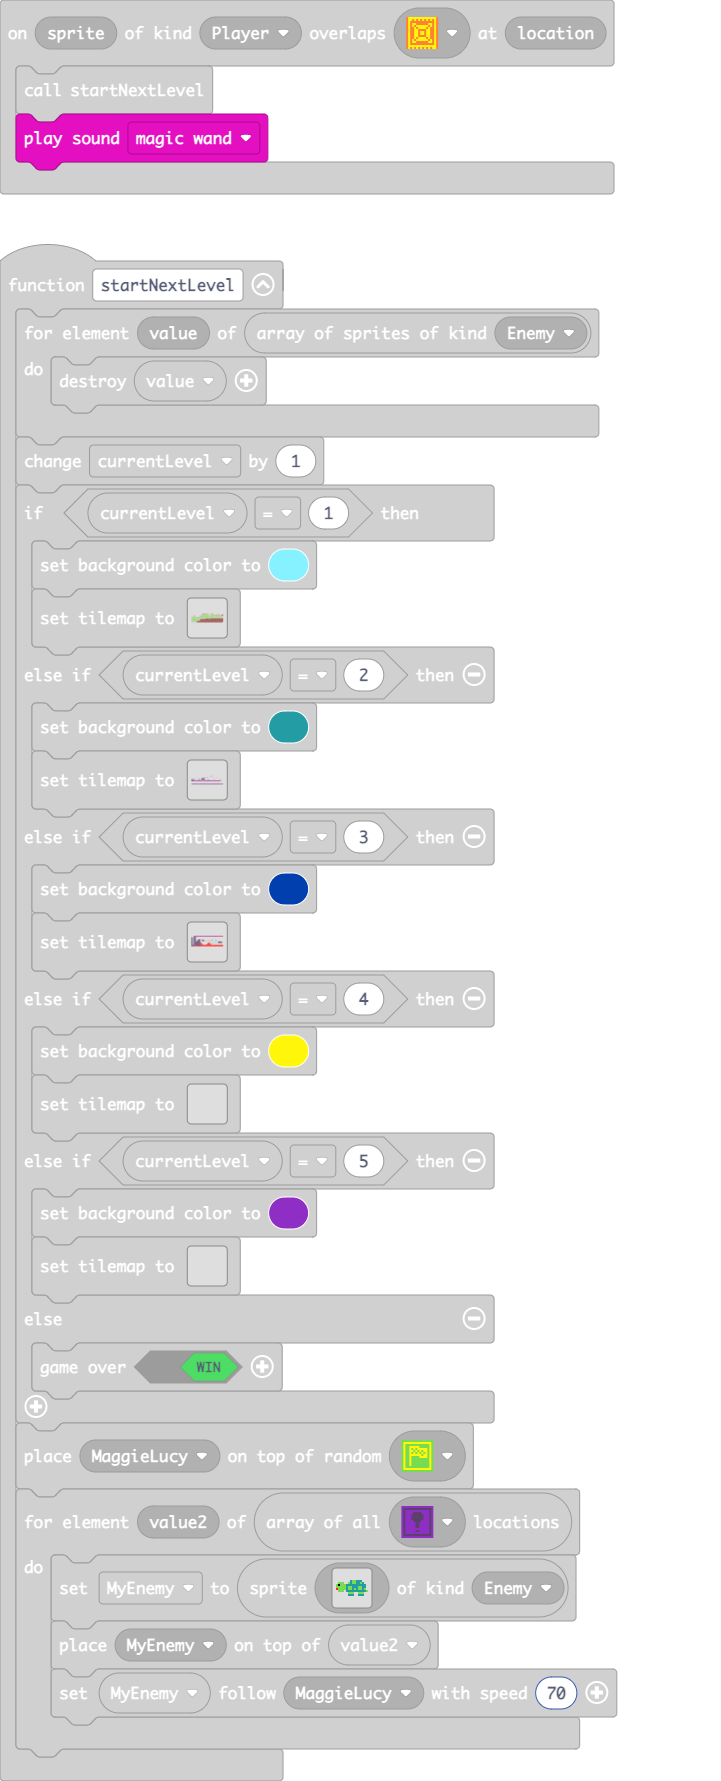
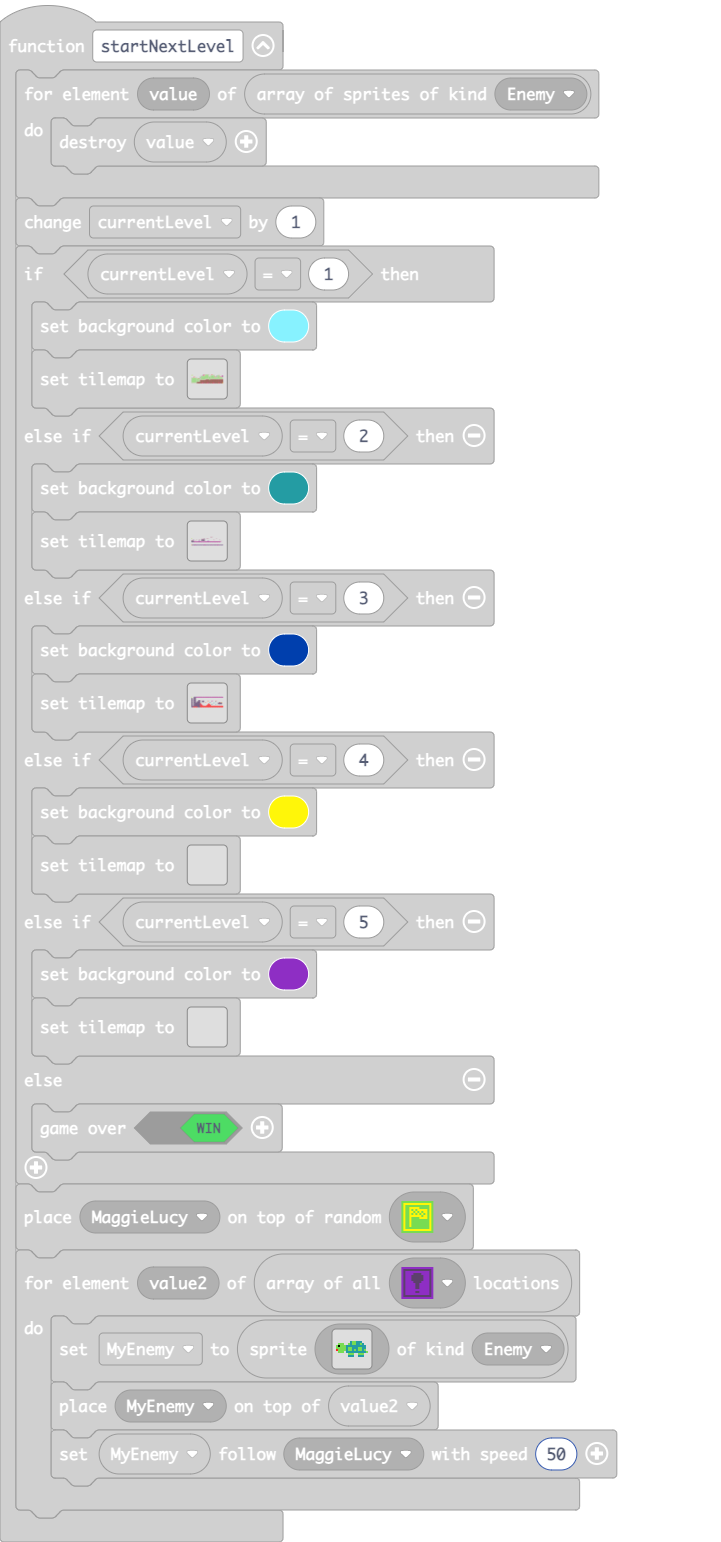
Update main.blocks, main.ts, tilemap.g.jres, tilemap.g.ts

diff --git a/tilemap.g.ts b/tilemap.g.ts
@@ -19,8 +19,6 @@ namespace myTiles {
     //% fixedInstance jres blockIdentity=images._tile
     export const tile9 = image.ofBuffer(hex``);
     //% fixedInstance jres blockIdentity=images._tile
-    export const tile7 = image.ofBuffer(hex``);
-    //% fixedInstance jres blockIdentity=images._tile
     export const tile10 = image.ofBuffer(hex``);
     //% fixedInstance jres blockIdentity=images._tile
     export const tile11 = image.ofBuffer(hex``);
@@ -30,6 +28,8 @@ namespace myTiles {
     export const tile13 = image.ofBuffer(hex``);
     //% fixedInstance jres blockIdentity=images._tile
     export const tile14 = image.ofBuffer(hex``);
+    //% fixedInstance jres blockIdentity=images._tile
+    export const tile7 = image.ofBuffer(hex``);
 
     helpers._registerFactory("tilemap", function(name: string) {
         switch(helpers.stringTrim(name)) {
@@ -189,8 +189,6 @@ namespace myTiles {
             case "tile8":return tile8;
             case "myTile7":
             case "tile9":return tile9;
-            case "myTile5":
-            case "tile7":return tile7;
             case "myTile8":
             case "tile10":return tile10;
             case "myTile9":
@@ -201,6 +199,8 @@ namespace myTiles {
             case "tile13":return tile13;
             case "myTile12":
             case "tile14":return tile14;
+            case "myTile5":
+            case "tile7":return tile7;
         }
         return null;
     })

diff --git a/main.ts b/main.ts
@@ -40,7 +40,7 @@ function startNextLevel () {
     for (let value2 of tiles.getTilesByType(assets.tile`myTile4`)) {
         MyEnemy = sprites.create(assets.tile`myTile5`, SpriteKind.Enemy)
         tiles.placeOnTile(MyEnemy, value2)
-        MyEnemy.follow(MaggieLucy, 70)
+        MyEnemy.follow(MaggieLucy, 50)
     }
 }
 scene.onOverlapTile(SpriteKind.Player, assets.tile`myTile2`, function (sprite, location) {
